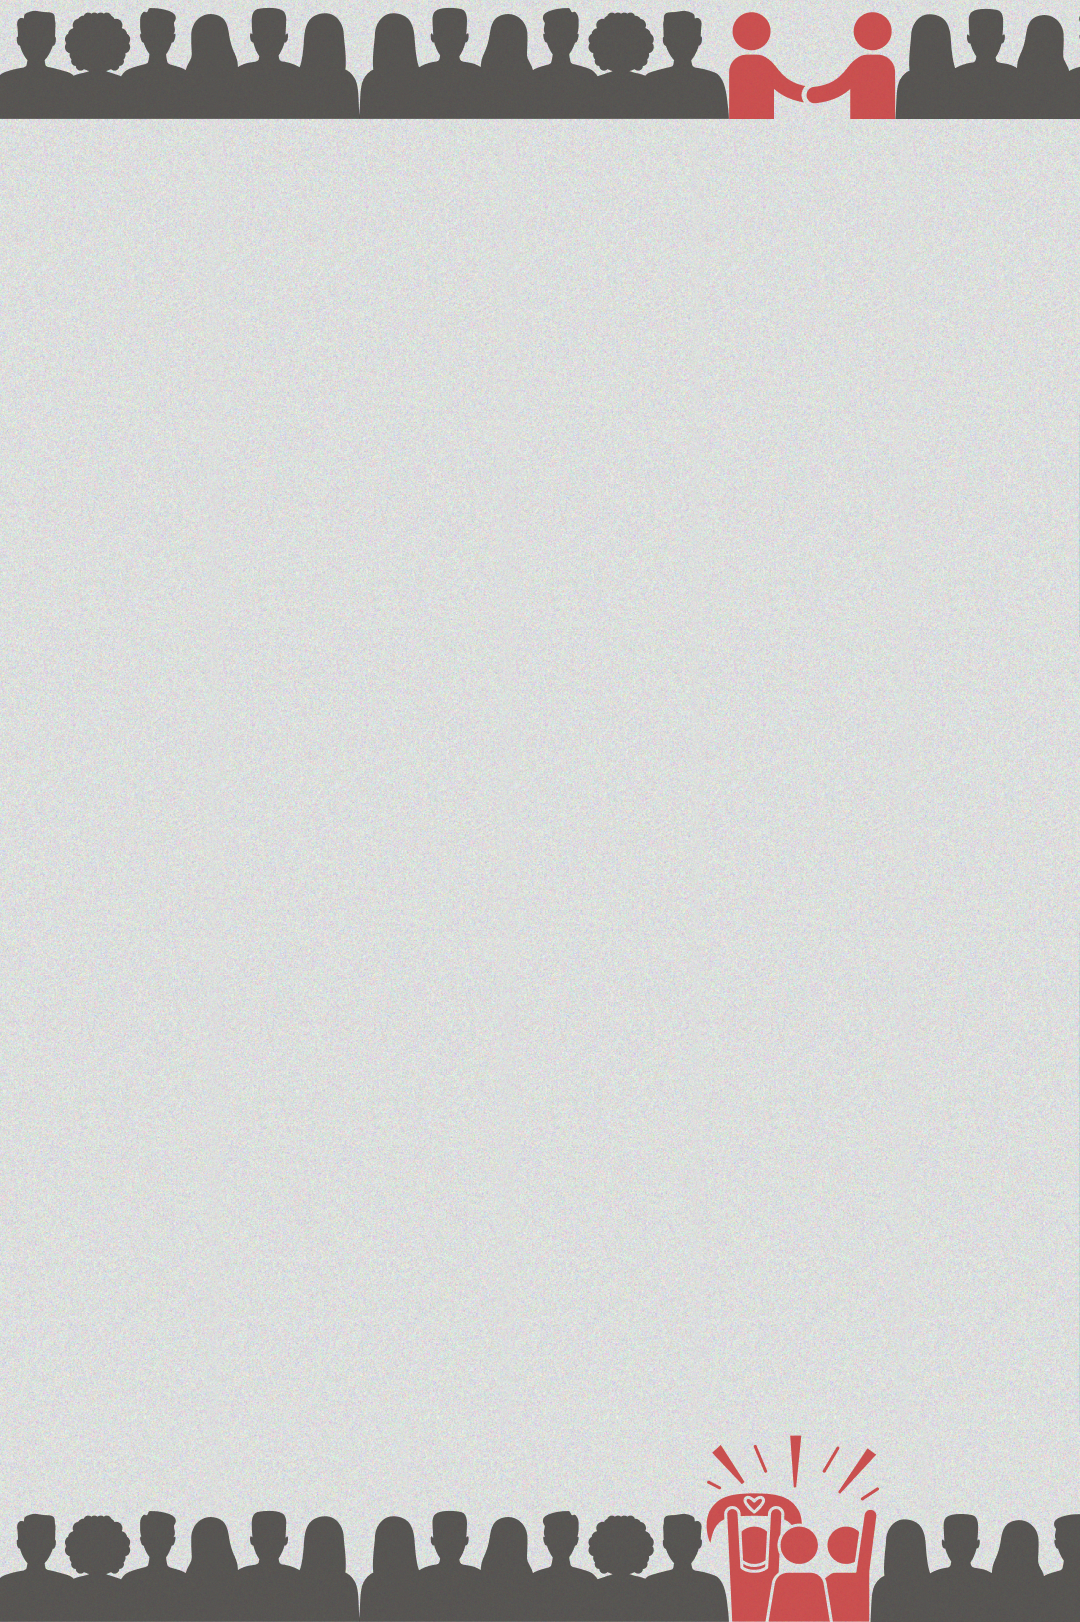
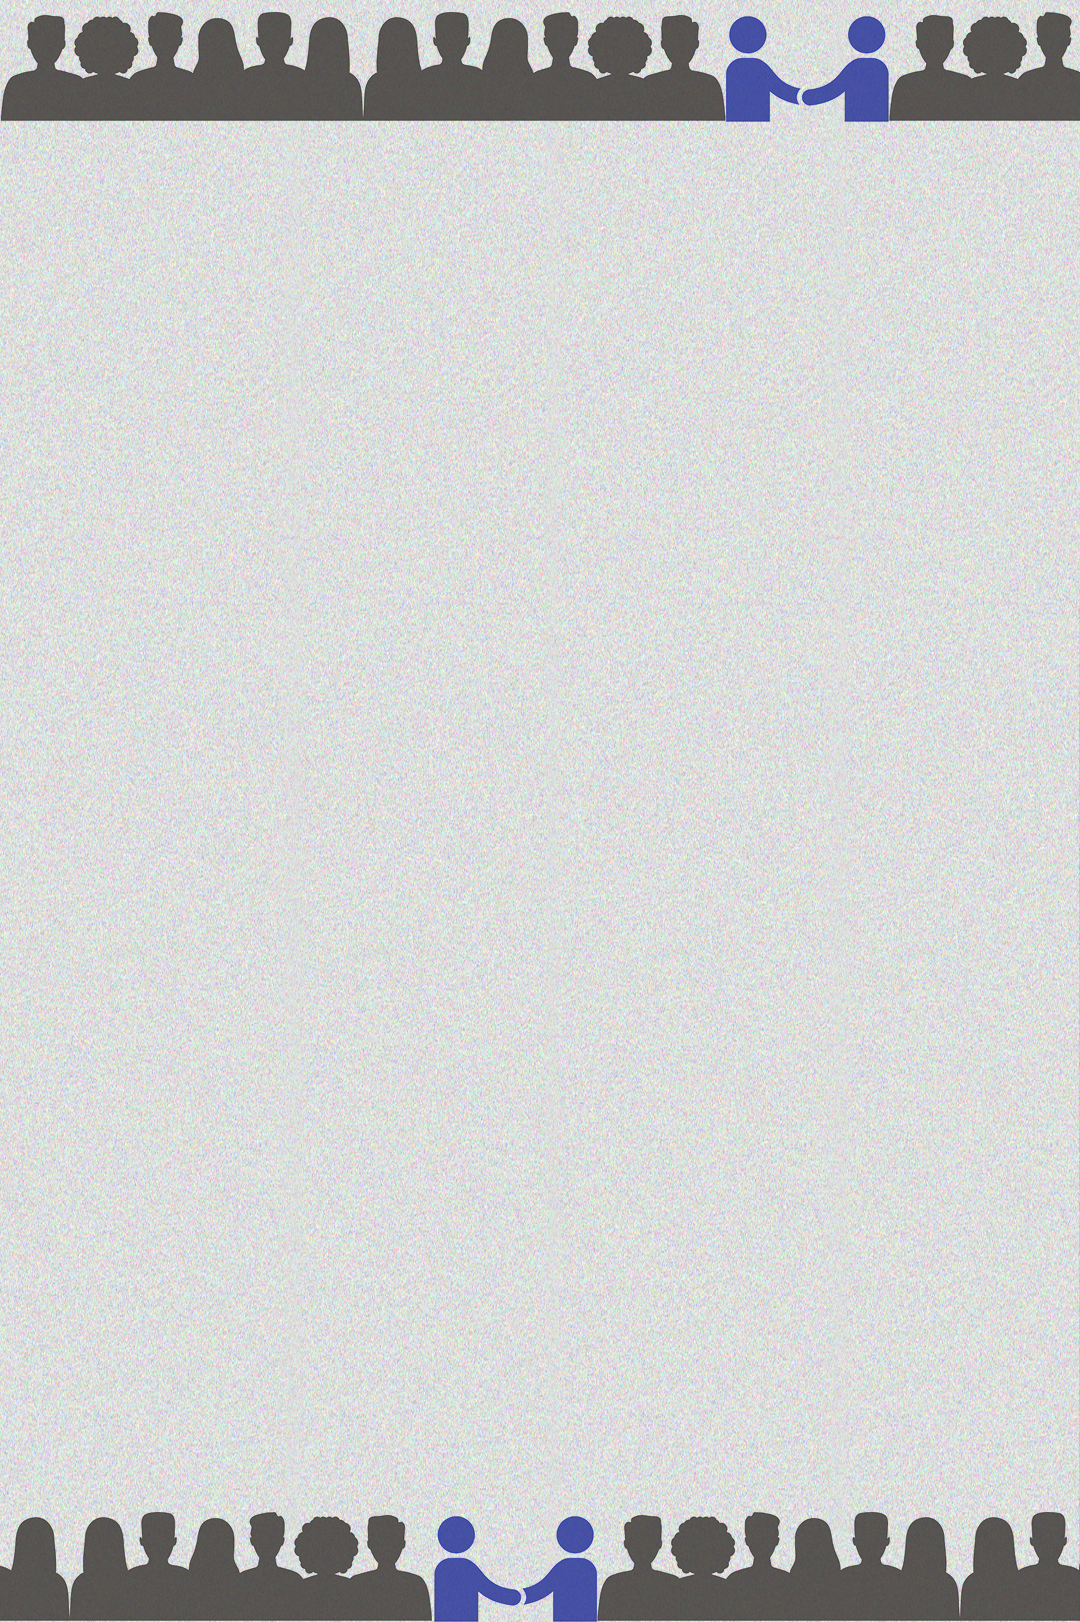
sos djecje selo

diff --git a/src/pages/index.js b/src/pages/index.js
@@ -21,18 +21,19 @@ const IndexPage = () => {
         <Hero />
         <section className="w-full h-full relative bg-contain bg-center" style={{ backgroundImage: `url(${bgsiva})` }}>
           <div className="flex flex-col justify-around items-start pt-14 px-6 lg:px-20 xl:px-32">
-            <h2 className="font-libre text-bordo uppercase italic text-md lg:text-lg lg:pt-20">podržite akciju</h2>
-            <p className="font-libre text-darkgrey text-sm pb-8 lg:pb-10 lg:text-md2 pt-4 lg:pt-8">Povodom božićnih blagdana i kraja godine, <strong>Udruga za blockchain i kriptovalute</strong> organizira akciju darivanja s ciljem podupiranja djelovanja <strong>Hrvatske mreže za beskućnike</strong> (HMB).</p>
+            <h2 className="font-libre text-bordo uppercase italic text-md lg:text-lg lg:pt-20">Podržite inicijativu</h2>
+            <p className="font-libre text-darkgrey text-sm pb-8 lg:pb-10 lg:text-md2 pt-4 lg:pt-8">Udruga za blockchain i kriptovalute organizira dobrotvnornu inicijativu darivanja s ciljem podupiranja djelovanja SOS Dječjeg sela Hrvatska.</p>
             <div className="flex flex-col justify-around items-center lg:flex-row lg:items-stretch lg:mt-10 lg:mb-20">
               <Card className="lg:w-1/3 my-6 lg:my-0 lg:h-full">  
-              <div className="bg-white shadow-2xl rounded-full py-12 lg:py-14 px-8 lg:px-10">
-                <StaticImage src="../images/hmblogo.png" placeholder="blurred" className="w-24" />
-            </div>
-                <p className="pt-8 px-8"><strong>Hrvatska mreža za beskućnike</strong> je neprofitna organizacija koja od 2013. godine pomaže društveno isključenim skupinama, poput beskućnica/ka i građana na rubu siromaštva, pružajući <strong>podršku i pomoć</strong> inicijativama koje se bave problematikom beskućništva, <strong>podizanjem svijesti</strong> i <strong>informiranosti javnosti</strong> te <strong>destigmatizacijom</strong> beskućništva.</p>
+                <StaticImage src="../images/hmblogo.png" placeholder="blurred" className="w-48" />
+                <p className="pt-8 px-8">SOS Dječje selo Hrvatska skrbi za <strong>djecu bez odgovarajuće roditeljske skrbi.</strong></p>
+                <p className="px-8 pb-8">U SOS Zajednicama mladih, mladi <strong>dobivaju smještaj,
+                    savjetovanje</strong> i priliku da steknu <strong>ključne životne vještine.</strong></p>
               </Card>
               <Card className="lg:w-1/3 mb-14 lg:my-0 lg:h-full">
                 <StaticImage src="../images/srce.png" placeholder="blurred"  />
-                <p className="pt-4 px-8"><strong>Cilj</strong> ovogodišnje akcije darivanja je prikupiti iznos od <span className="strong text-red">10.000 eura</span> u svrhu podržavanja rada Hrvatske mreže za beskućnike. Akcija traje <strong>od 11.12. do 31.12.2024</strong> i donirati možete u <strong>kriptovalutama</strong> ili direktnom uplatom na naš IBAN.</p>
+                <p className="pt-8 px-8"><strong>Cilj</strong> akcije darivanja je prikupiti sredstva u svrhu sanacije klizišta u SOS Zajednici mladih Zagreb.</p>
+                <p className="pb-8 px-8">Akcija traje <strong>do 31.12.2025.</strong>, a donirati možete u kriptovalutama ili direktnom uplatom na naš IBAN.</p>
               </Card>
             </div>
           </div>
@@ -41,10 +42,10 @@ const IndexPage = () => {
          {/*   <StaticImage src="../images/mobilepplshake.png" placeholder="blurred" className="w-full md:hidden" imgClassName="md:hidden"  />
           <StaticImage src="../images/desktoppplshake.png" placeholder="blurred" className="w-full py-10 hidden md:block" imgClassName="hidden md:block" /> */}
           <div className="flex flex-col justify-around items-center pt-14 px-6 lg:px-20 xl:px-32 lg:py-20">
-            <h2 className="font-libre text-bordo uppercase text-lg lg:text-2xl italic pt-8 line-through">cilj: 10000 EUR!</h2>
-            <h2 className="font-libre text-bordo uppercase text-lg lg:text-2xl italic pt-8">cilj: 20000 EUR!</h2>
+            <h2 className="font-libre text-bordo uppercase text-lg lg:text-2xl italic pt-8">cilj: 10000 EUR!</h2>
+            <h2 className="font-libre text-bordo uppercase text-lg lg:text-2xl italic pt-8 hidden">cilj: 20000 EUR!</h2>
             <p className="font-libre text-darkgrey text-sm lg:text-md2 lg:w-1/2 py-8 lg:py-12">
-              <strong>Pomozite nam</strong> da uljepšamo blagdane i ulazak u novu godinu našim nevidljivim sugrađanima!
+              <strong>Pomozite nam</strong> da uljepšamo blagdane i ulazak u novu godinu našim najmlađim sugrađanima!
             </p>
             <Button imageSrc={btn} containerClass="items-center">DONIRAJ KRIPTO</Button>
             <p className="font-inter text-darkgrey text-sm lg:text-md pt-2 lg:pt-4 pb-16">Ili uplatom na IBAN: HR0324020061100858697 <br></br> Opis plaćanja: Donacija za humanitarnu akciju</p>
@@ -55,8 +56,8 @@ const IndexPage = () => {
         <section className="w-full h-full bg-scroll relative bg-cover bg-center text-center" style={{ backgroundImage: `url(${bgsiva})` }}>
           <div className="flex flex-col justify-around items-center pt-14 px-6 lg:px-20 xl:px-32 py-14 lg:py-20">
             <h2 className="font-libre text-bordo uppercase italic text-md lg:text-lg">Dosad je prikupljeno:</h2>
-            <ProgressBar value={14663} target={20000} className="mt-8" />
-            <p className="font-inter text-tiny lg:text-sm italic pt-2 text-darkgrey font-light lg:pt-4">Akcija traje do 31.12.2024.</p>
+            <ProgressBar value={0} target={10000} className="mt-8" />
+            <p className="font-inter text-tiny lg:text-sm italic pt-2 text-darkgrey font-light lg:pt-4">Akcija traje do 31.12.2025.</p>
           </div>
         </section>
       </Layout>

diff --git a/src/components/hero.js b/src/components/hero.js
@@ -57,13 +57,13 @@ const Hero = ({ children }) => {
         }}
       >
         <div className="container mx-auto w-full px-4 lg:px-16 xl:px-12 flex flex-col lg:flex-row-reverse justify-start items-center lg:justify-between lg:items-center"> 
-            <div className="bg-white shadow-2xl rounded-full py-12 lg:py-16 lg:mr-20 px-8">
-             <a href="https://beskucnici.info/" target="_blank"><StaticImage src="../images/hmblogo.png" placeholder="blurred" className="w-24 lg:w-48" /></a>   
+            <div className="">
+             <a href="https://sos-dsh.hr/" target="_blank"><StaticImage src="../images/hmblogo.png" placeholder="blurred" className="w-full lg:w-72 lg:h-72" /></a>   
             </div>
-            <div className="flex flex-col justify-between items-start text-left pt-8 lg:pt-0">
-                <h2 className="font-libre text-bordo uppercase italic text-md lg:text-lg">humanitarna akcija</h2>
-                <h1 className="font-libre text-black uppercase font-semibold text-lg lg:text-2xl lg:py-4">merry crypsmas</h1>
-                <p className="font-inter text-darkgrey text-sm pb-8 lg:pb-10 lg:text-md2 lg:w-2/3 italic">Pozivamo vas da podržite UBIK humanitarnu akciju namijenjenu pomaganju jednoj od društveno najugroženijih skupina!</p>
+            <div className="flex flex-col justify-between items-start text-left pt-8">
+                <h2 className="font-libre text-bordo uppercase italic text-md lg:text-lg">Dobrotvorna inicijativa</h2>
+                <h1 className="font-libre text-black uppercase font-semibold text-lg lg:text-2xl lg:py-4">SOS DJEČJE SELO</h1>
+                <p className="font-inter text-darkgrey text-sm pb-8 lg:pb-10 lg:text-md2 lg:w-2/3 italic">Pozivamo Vas da podržite UBIK humanitarnu akciju namijenjenu sanaciji klizišta u SOS Zajednici mladih Zagreb!</p>
                 <Button imageSrc={btn} containerClass="items-start">DONIRAJ KRIPTO</Button>
                 <p className="font-inter text-darkgrey text-sm lg:text-md pt-2 lg:pt-4 pb-16">Ili uplatom na IBAN: HR0324020061100858697 <br></br> Opis plaćanja: Donacija za humanitarnu akciju</p>
             </div>

diff --git a/tailwind.config.js b/tailwind.config.js
@@ -21,9 +21,9 @@ module.exports = {
     },
     colors: {
       'white': '#ffffff',
-      'red': '#DE252C',
-      'bordo': '#C52C2C',
-      'grey': '#E0E0E0',
+      'red': '#03aeed',
+      'bordo': '#212d96',
+      'grey': '#f0edef',
       'darkgrey': '#36330',
       'black': '#000000'
     },
